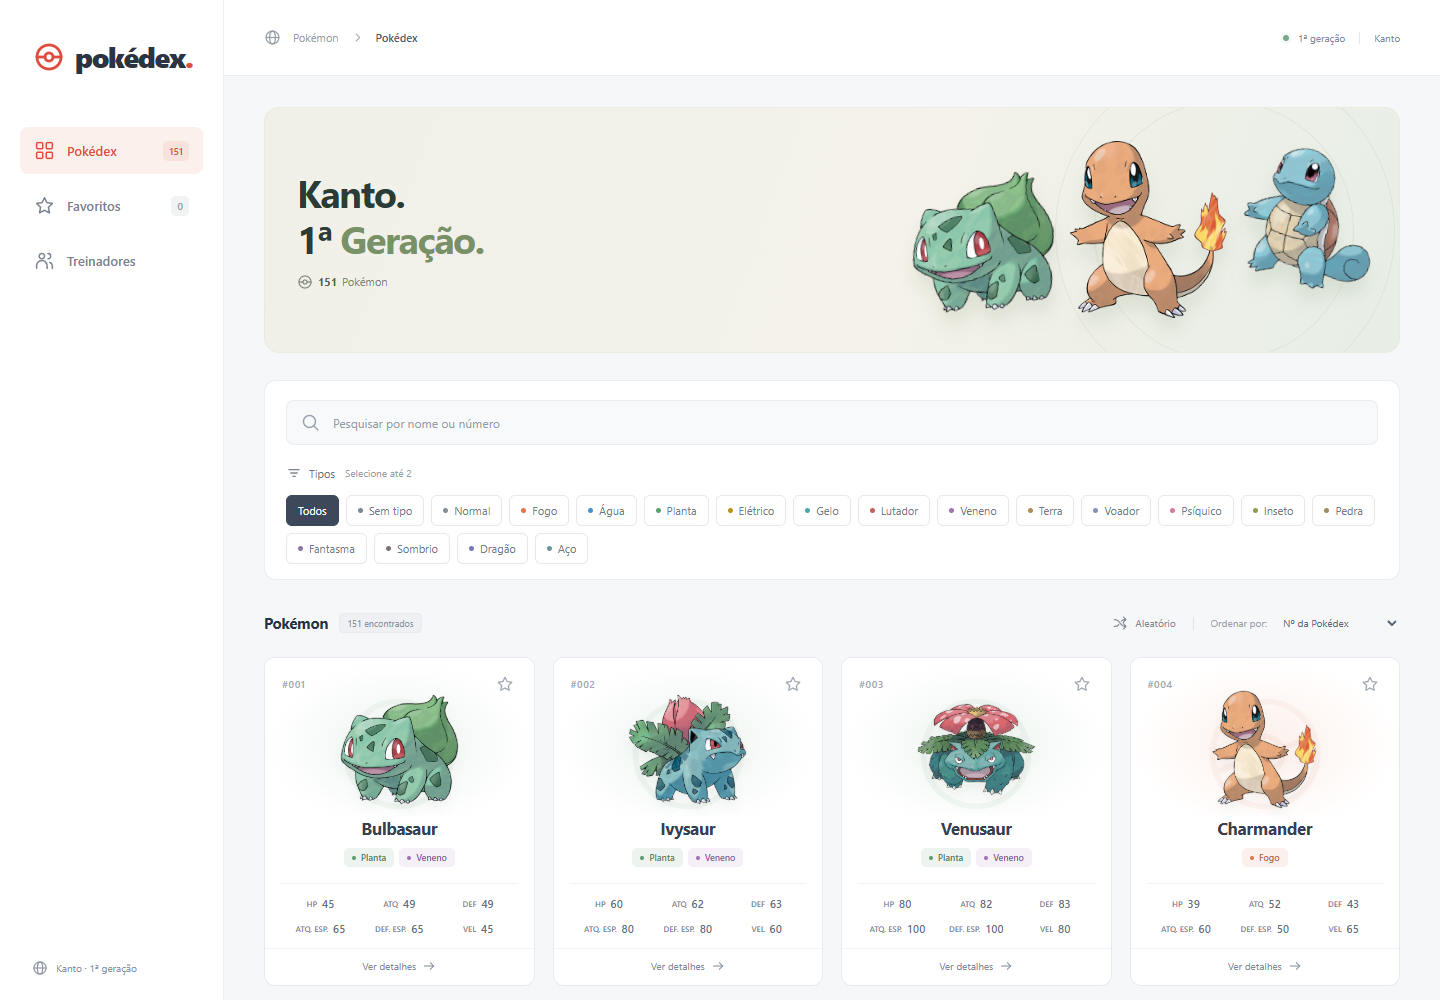
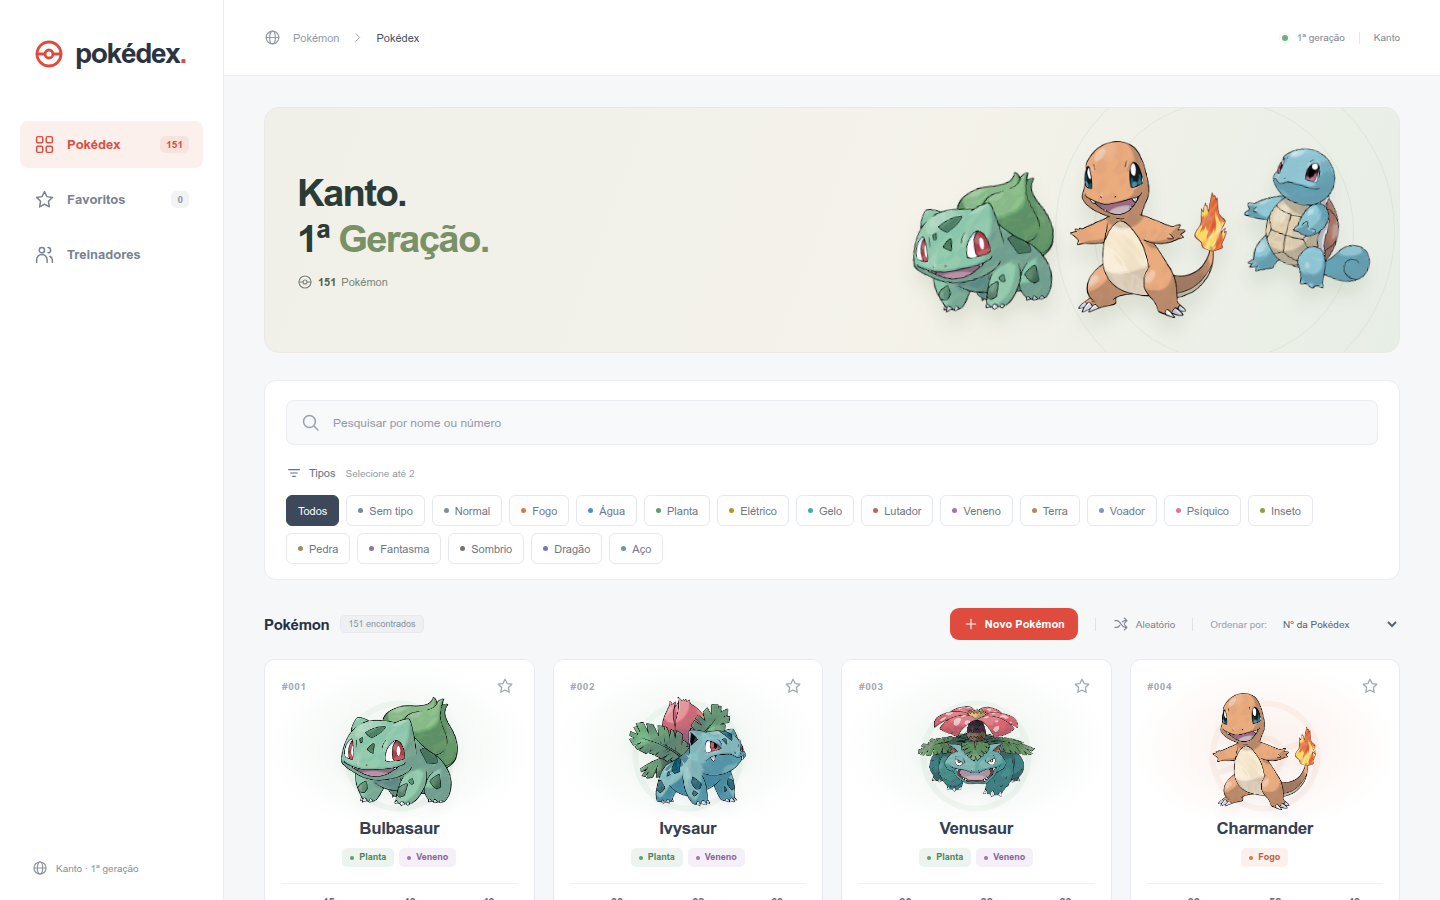
Corrige a especificidade dos novos botões e atualiza as capturas
O index.css declara .button depois dos @import, então regras de mesma
especificidade nos demais arquivos eram sobrescritas: o botão Excluir
ficava sem borda, o Excluir Pokémon da confirmação usava a cor padrão
e o Novo Pokémon ignorava o tamanho compacto. Os seletores passam a
usar .button.<variante>.

docs/ recebe as capturas da versão integrada à API: tela principal com
o botão Novo Pokémon (desktop e celular), detalhes com Editar e
Excluir, e o formulário de edição.

diff --git a/frontend/src/css/PokemonDetails.css b/frontend/src/css/PokemonDetails.css
@@ -57,8 +57,8 @@
 .detail-actions .button { flex: 1 1 auto; font-size: 11px; }
 .detail-actions .favorite-button { flex-basis: 100%; }
 .detail-actions .favorite-button.is-favorite { background: #f6f1df; color: #a1822c; }
-.button-danger { background: #fff; border-color: #f1d3ce; color: #c0392b; }
-.button-danger:hover { background: #fdf1ef; }
+.button.button-danger { background: #fff; border-color: #f1d3ce; color: #c0392b; }
+.button.button-danger:hover { background: #fdf1ef; }
 
 /* Formulário de cadastro e edição */
 .form-dialog { width: min(720px, calc(100% - 40px)); }
@@ -107,5 +107,5 @@
 .confirm-body .form-alert { margin: 14px 0 0; text-align: left; }
 .confirm-actions { position: static; margin: 0; padding: 16px 24px; }
 .confirm-actions .button { flex: 1; }
-.button-delete { background: #c0392b; }
-.button-delete:hover { background: #a93226; }
+.button.button-delete { background: #c0392b; }
+.button.button-delete:hover { background: #a93226; }

diff --git a/frontend/src/css/App.css b/frontend/src/css/App.css
@@ -166,8 +166,8 @@
 .status-hint { font-size: 11px !important; }
 .status-spinner { display: inline-flex; margin-bottom: 20px; color: var(--accent); animation: status-spin 1.1s linear infinite; }
 @keyframes status-spin { to { transform: rotate(360deg); } }
-.new-pokemon-button { min-height: 32px; padding: 6px 12px; font-size: 11px; gap: 6px; }
+.button.new-pokemon-button { min-height: 32px; padding: 6px 12px; font-size: 11px; gap: 6px; }
 @media (max-width: 640px) {
   .results-actions { flex-wrap: wrap; row-gap: 10px; }
-  .new-pokemon-button { order: -1; width: 100%; }
+  .button.new-pokemon-button { order: -1; width: 100%; }
 }
